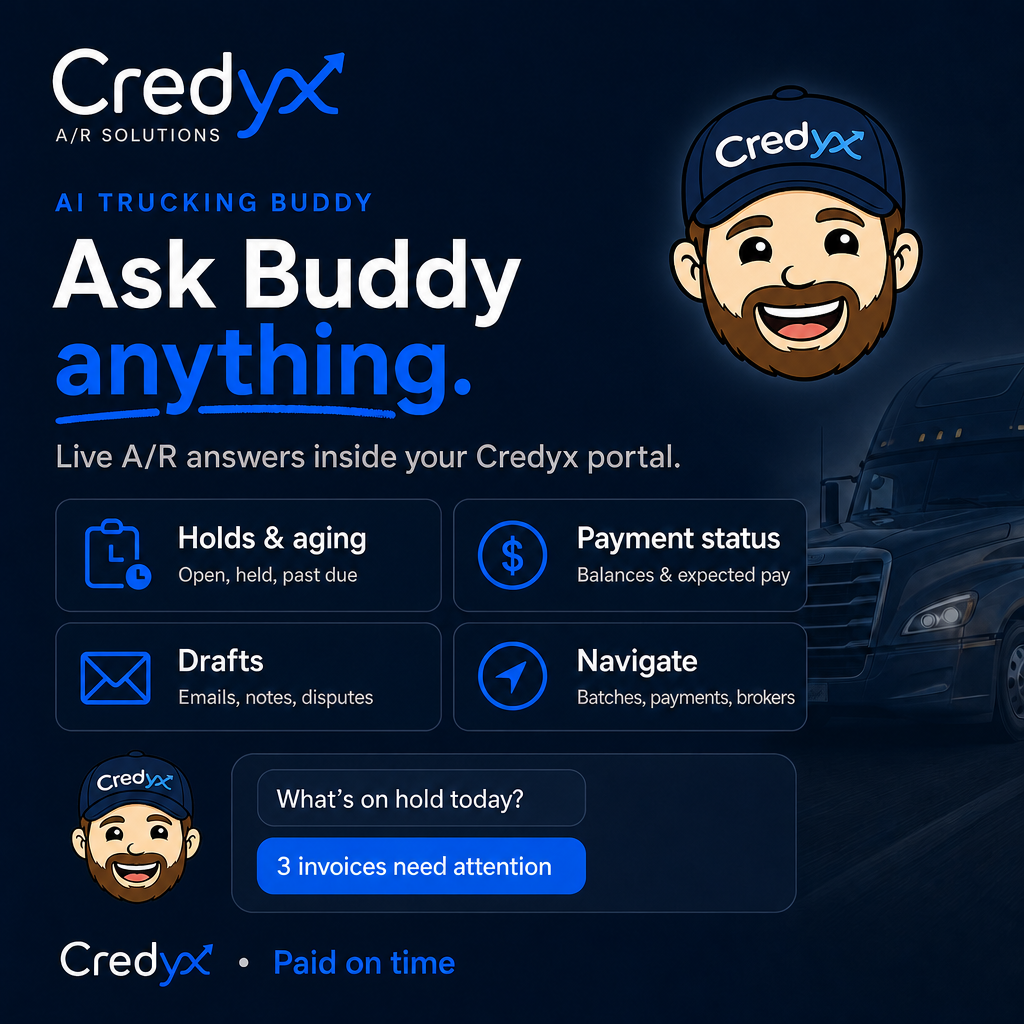
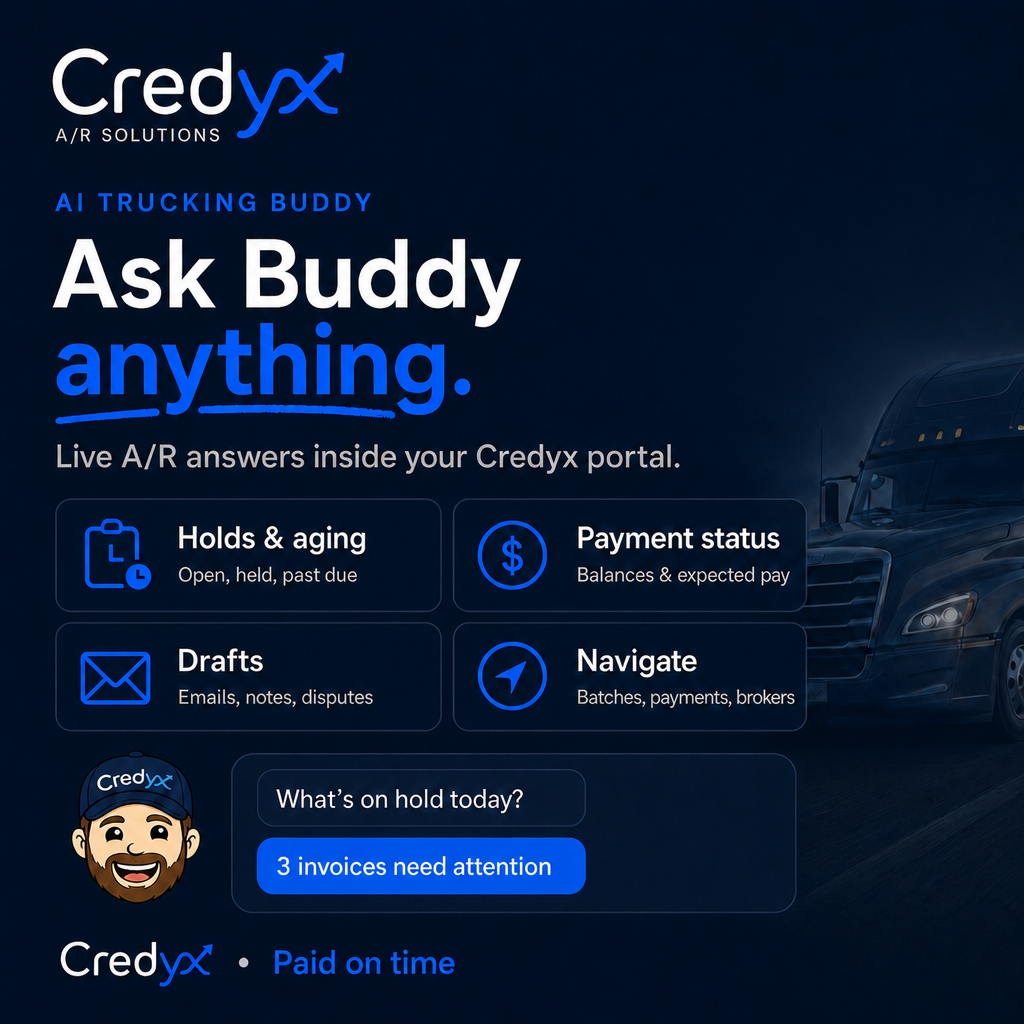
Tighten Buddy section copy and compact the feature cards.

diff --git a/src/styles/credyxMarketing.css b/src/styles/credyxMarketing.css
@@ -1908,7 +1908,16 @@
 
 .credyx-page--waitlist .cx-buddy-head .cx-section-title {
   font-size: clamp(1.4rem, 1.2rem + 0.9vw, 1.95rem);
-  margin: 0 0 10px;
+  margin: 0 0 6px;
+}
+
+.credyx-page--waitlist .cx-buddy-tagline {
+  margin: 0 auto 12px;
+  font-size: clamp(0.95rem, 0.9rem + 0.25vw, 1.1rem);
+  font-weight: 650;
+  letter-spacing: -0.015em;
+  color: var(--cx-blue);
+  line-height: 1.35;
 }
 
 .credyx-page--waitlist .cx-buddy-head .cx-section-sub {
@@ -2491,7 +2500,7 @@
 .credyx-page--waitlist .cx-buddy-aside {
   display: flex;
   flex-direction: column;
-  gap: 12px;
+  gap: 10px;
   padding: clamp(4px, 0.5vw, 8px) 0;
 }
 
@@ -2504,20 +2513,27 @@
   color: var(--cx-muted);
 }
 
+.credyx-page--waitlist .cx-buddy-aside-intro {
+  margin: 0 0 2px;
+  font-size: 0.86rem;
+  line-height: 1.45;
+  color: var(--cx-body);
+}
+
 .credyx-page--waitlist .cx-buddy-features {
   display: grid;
-  grid-template-columns: 1fr;
-  gap: 10px;
+  grid-template-columns: repeat(2, minmax(0, 1fr));
+  gap: 8px;
 }
 
 .credyx-page--waitlist .cx-buddy-feature {
   display: flex;
-  gap: 12px;
-  align-items: center;
+  gap: 8px;
+  align-items: flex-start;
   background: rgba(255, 255, 255, 0.04);
   border: 1px solid var(--cx-card-border);
-  border-radius: 16px;
-  padding: 14px 14px;
+  border-radius: 12px;
+  padding: 10px 10px;
   transition:
     transform 0.2s ease,
     box-shadow 0.2s ease,
@@ -2525,15 +2541,15 @@
 }
 
 .credyx-page--waitlist .cx-buddy-feature:hover {
-  transform: translateY(-2px);
+  transform: translateY(-1px);
   border-color: rgba(22, 132, 254, 0.25);
-  box-shadow: 0 12px 28px rgba(0, 0, 0, 0.25);
+  box-shadow: 0 8px 20px rgba(0, 0, 0, 0.2);
 }
 
 .credyx-page--waitlist .cx-buddy-feature-icon {
-  width: 40px;
-  height: 40px;
-  border-radius: 12px;
+  width: 30px;
+  height: 30px;
+  border-radius: 9px;
   display: inline-flex;
   align-items: center;
   justify-content: center;
@@ -2545,7 +2561,7 @@
 
 .credyx-page--waitlist .cx-buddy-feature h3 {
   margin: 0 0 2px;
-  font-size: 0.92rem;
+  font-size: 0.8rem;
   font-weight: 800;
   color: var(--cx-ink);
   letter-spacing: -0.02em;
@@ -2554,14 +2570,14 @@
 
 .credyx-page--waitlist .cx-buddy-feature p {
   margin: 0;
-  font-size: 0.78rem;
-  line-height: 1.35;
+  font-size: 0.7rem;
+  line-height: 1.3;
   color: var(--cx-muted);
 }
 
 .credyx-page--waitlist .cx-buddy-aside-note {
-  margin: 4px 0 0;
-  font-size: 0.78rem;
+  margin: 2px 0 0;
+  font-size: 0.74rem;
   line-height: 1.4;
   color: var(--cx-muted);
   padding-left: 2px;
@@ -2631,7 +2647,7 @@
   }
 
   .credyx-page--waitlist .cx-buddy-features {
-    grid-template-columns: 1fr;
+    grid-template-columns: repeat(2, minmax(0, 1fr));
   }
 }
 

diff --git a/src/pages/Waitlist.tsx b/src/pages/Waitlist.tsx
@@ -577,11 +577,13 @@ export default function Waitlist() {
           <div className="cx-buddy-head reveal reveal-grow">
             <p className="cx-eyebrow">Assistant</p>
             <h2 className="cx-section-title">
-              Meet your{' '}
-              <span className="accent cx-hand-underline">AI trucking buddy</span>
+              Meet{' '}
+              <span className="accent cx-hand-underline">Buddy</span>
             </h2>
+            <p className="cx-buddy-tagline">Your AI trucking assistant</p>
             <p className="cx-section-sub">
-              Ask about your A/R. Buddy answers from your live invoices — you stay in control.
+              Ask about holds, payments, and missing docs. Buddy answers from your live invoices —
+              and never sends anything until you confirm.
             </p>
           </div>
 
@@ -696,11 +698,14 @@ export default function Waitlist() {
 
             <div className="cx-buddy-aside reveal reveal-grow">
               <p className="cx-buddy-aside-label">What Buddy can do</p>
+              <p className="cx-buddy-aside-intro">
+                A quick A/R helper in your portal — answers, drafts, and navigation when you need them.
+              </p>
               <div className="cx-buddy-features reveal-stagger reveal">
                 {BUDDY_FEATURES.map((feature) => (
                   <div key={feature.title} className="cx-buddy-feature">
                     <div className="cx-buddy-feature-icon">
-                      <feature.icon size={18} strokeWidth={2} />
+                      <feature.icon size={16} strokeWidth={2} />
                     </div>
                     <div>
                       <h3>{feature.title}</h3>
